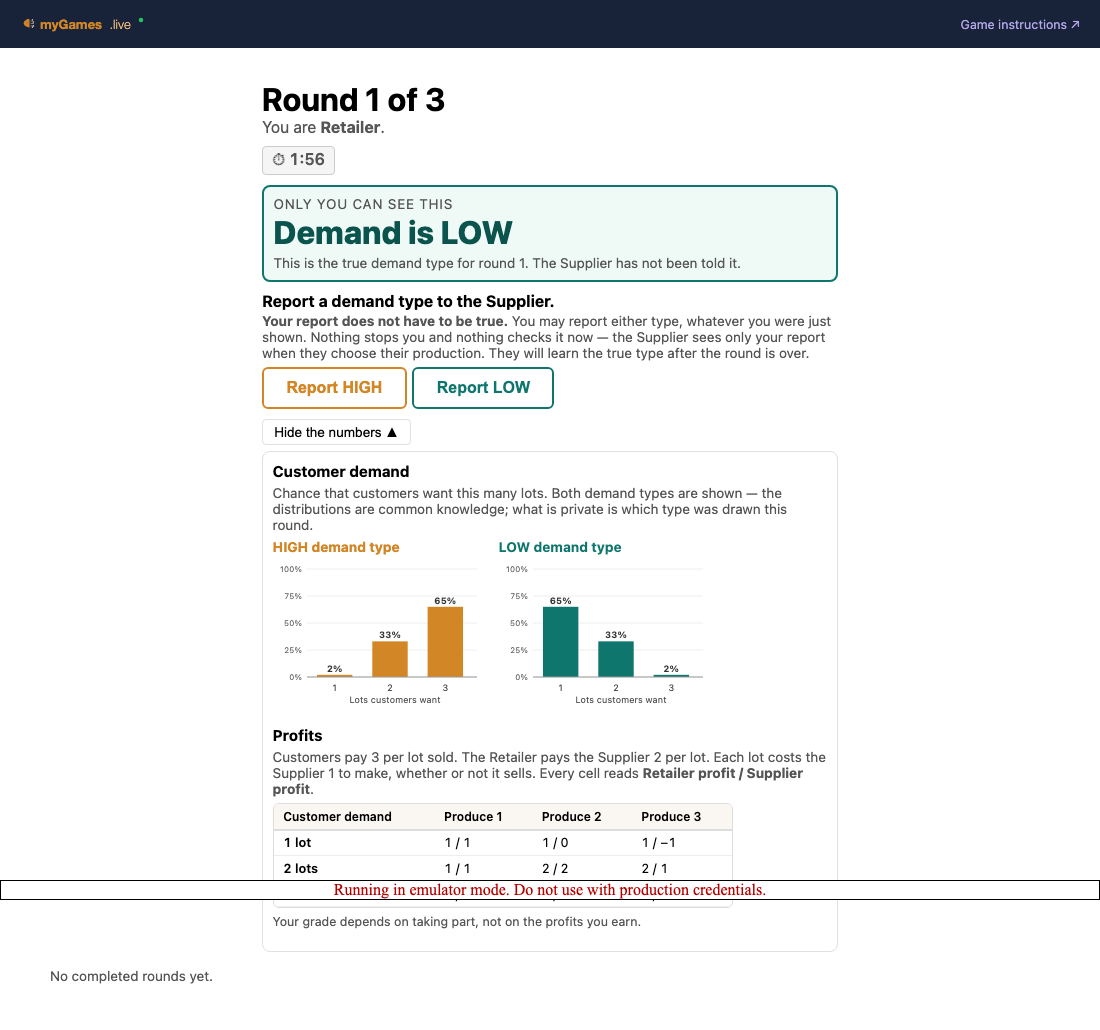
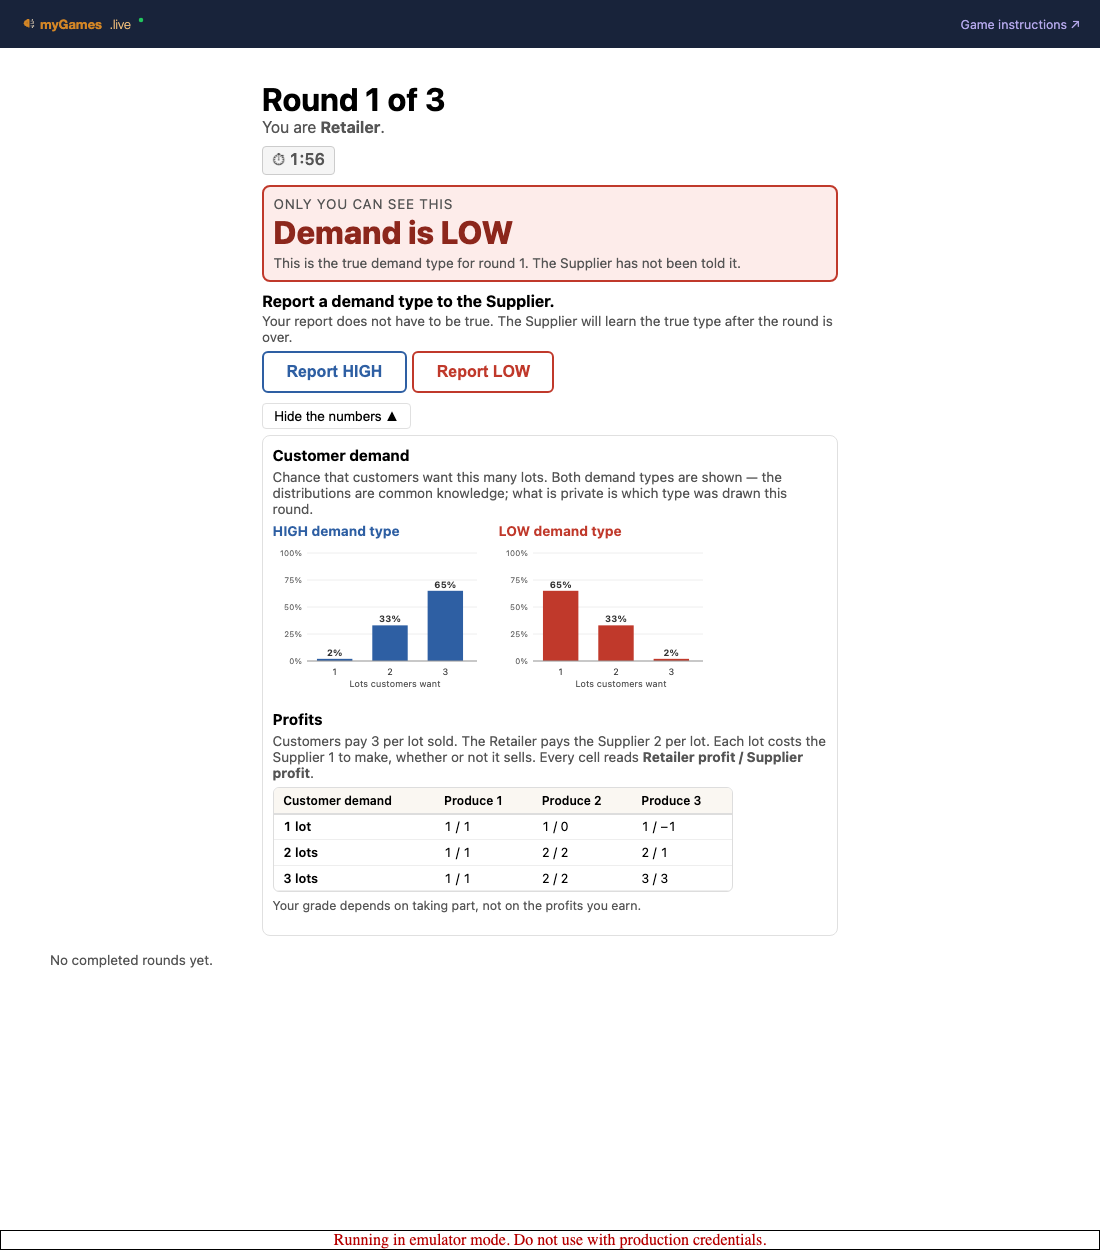
infoshare: Elena's copy, blue/red palette, round-1 panel default, payoff assertion
COPY — Elena's wording verbatim on both decision screens. The earlier version
over-explained: it spelled out that nothing checks the report and that the
Supplier sees only the message, both obvious from the screen and both covered by
the instruction sheet and the knowledge check. Students do not read paragraphs
on a decision screen.

COLOUR — HIGH is blue #2E5FA3, LOW is red #C0392B, matching the printed sheet.
A student is handed paper and then looks at a screen; two palettes for one idea
means learning the key twice.

  ⚠ This was NOT a one-place change, contrary to my earlier claim. The constants
  were declared in reports/Charts.tsx AND again in game/InformationPanel.tsx,
  with six more hex literals inlined in GameScreen.tsx. Now genuinely one place:
  src/demandColours.ts, which everything imports.

  Also fixes a caption that named the palette — "the orange dots", "the teal
  dots" — and would have contradicted the chart the moment it changed. It now
  says HIGH and LOW, which the legend colours.

NUMBERS PANEL — open by default in round 1, then the student's own choice for
every round after. `touched` records whether they have actually used the toggle:
without it, "round 1 default" and "the student closed it" are the same state and
the panel springs back open for exactly the student who said no.

PAYOFF TABLE — asserted, not photographed. Checks 3 demand rows × 3 production
columns, all nine cells non-empty, and that nothing is drawn on top of any of
[…]

diff --git a/frontend/src/game/GameScreen.tsx b/frontend/src/game/GameScreen.tsx
@@ -10,6 +10,7 @@ import {
 import HistoryTable from './HistoryTable'
 import ClockBar from './ClockBar'
 import InformationPanel from './InformationPanel'
+import { colourFor, tintFor, textFor } from '../demandColours'
 
 // ═══════════════════════════════════════════════════════════════════════════════
 // THE STUDENT GAME SCREEN — the two decision screens (spec §1.1).
@@ -119,6 +120,17 @@ export default function GameScreen({
 
   const v = data.view
 
+  /*
+    ⚠ PRESENCE DECIDES, the narrowing is only for the type checker.
+    `'demandType' in v` is still the gate — never `v.demandType != null` and never
+    `v.demandType ?? 'unknown'`. When the reveal rule withholds the draw the KEY IS
+    ABSENT, and a nullish test written the easy way turns "hidden" into a rendered value
+    the moment someone changes the server to send null. This binding exists because
+    TypeScript does not narrow an optional property through `in` at the use site, not
+    because absence and undefined are being treated as the same thing.
+  */
+  const trueType = 'demandType' in v ? v.demandType : undefined
+
   // ── the round result screen ──────────────────────────────────────────────────
   if (showingResultFor !== null && v.history.length >= showingResultFor) {
     const row = v.history[showingResultFor - 1]
@@ -207,13 +219,13 @@ export default function GameScreen({
         whole decision is what to do with a fact only they hold; burying it in a sentence
         makes the game about reading carefully instead of about choosing.
       */}
-      {'demandType' in v && (
+      {trueType !== undefined && (
         <section
           data-testid="private-state"
           style={{
             margin: `${spacing.gapMd} 0`, padding: spacing.gapMd, borderRadius: 8,
-            border: `2px solid ${v.demandType === 'HIGH' ? '#D38626' : '#0f766e'}`,
-            background: v.demandType === 'HIGH' ? '#fdf5e9' : '#effaf7',
+            border: `2px solid ${colourFor(trueType)}`,
+            background: tintFor(trueType),
           }}
         >
           <p style={{ margin: 0, fontSize: typography.sizeSm, color: colors.textSecondary,
@@ -221,8 +233,8 @@ export default function GameScreen({
             Only you can see this
           </p>
           <p style={{ margin: '0.15rem 0 0', fontSize: '2rem', fontWeight: 800, lineHeight: 1.1,
-                      color: v.demandType === 'HIGH' ? '#8a5410' : '#0b544d' }}>
-            Demand is {v.demandType}
+                      color: textFor(trueType) }}>
+            Demand is {trueType}
           </p>
           <p style={{ margin: '0.3rem 0 0', fontSize: typography.sizeSm, color: colors.textSecondary }}>
             This is the true demand type for round {v.round}. The Supplier has not been told it.
@@ -233,28 +245,29 @@ export default function GameScreen({
       {v.owes === 'message' && (
         <>
           {/*
-            ⚠ DO NOT SOFTEN THIS COPY. The Retailer is being told, in plain words, that
-            they may report a type that is not the one they were shown, and that nothing
-            checks it at the time. That is not a loophole in the game — it is the game.
-            A student who believes the report is supposed to be true is not playing the
-            same experiment as the one who does not, and the class data becomes a mixture
-            of two populations. "Please report honestly", "your report should reflect…",
-            or any wording that implies an obligation, breaks the design.
+            ⚠ ELENA'S WORDING, VERBATIM. Two sentences, and the first one carries the
+            whole design: a student who believes the report is SUPPOSED to be true is not
+            running the same experiment as one who does not, and the class data becomes a
+            mixture of two populations. Never add "please report honestly", "your report
+            should reflect…", or anything else implying an obligation.
+
+            Equally: do not ADD to it. An earlier version explained at length that nothing
+            checks the report and that the Supplier sees only the message — both obvious
+            from the screen in front of them, and both covered by the instruction sheet
+            and the knowledge check. Students do not read paragraphs on a decision screen.
           */}
           <Choices
             label={`Report a demand type to the Supplier.`}
             help={
               <>
-                <strong>Your report does not have to be true.</strong> You may report
-                either type, whatever you were just shown. Nothing stops you and nothing
-                checks it now — the Supplier sees only your report when they choose their
-                production. They will learn the true type after the round is over.
+                Your report does not have to be true. The Supplier will learn the true
+                type after the round is over.
               </>
             }
             testId="message-choices"
             options={[
-              { value: 'HIGH', label: 'Report HIGH', tint: '#D38626' },
-              { value: 'LOW', label: 'Report LOW', tint: '#0f766e' },
+              { value: 'HIGH', label: 'Report HIGH', tint: colourFor('HIGH') },
+              { value: 'LOW', label: 'Report LOW', tint: colourFor('LOW') },
             ]}
             disabled={busy}
             onPick={(val) => act(() => submitMessage(groupId, val as DemandType))}
@@ -286,12 +299,14 @@ export default function GameScreen({
             </p>
             <p data-testid="reported-type"
                style={{ margin: '0.15rem 0 0', fontSize: '2rem', fontWeight: 800, lineHeight: 1.1,
-                        color: v.currentMessage === 'HIGH' ? '#8a5410' : '#0b544d' }}>
+                        color: v.currentMessage === 'LOW' ? textFor('LOW') : textFor('HIGH') }}>
               {v.currentMessage ?? '—'}
             </p>
+            {/* Elena's wording, verbatim. Do not expand it. */}
             <p style={{ margin: '0.3rem 0 0', fontSize: typography.sizeSm, color: colors.textSecondary }}>
               This is what the Retailer chose to tell you. It may or may not be the true
-              demand type — you will find out after you have produced.
+              demand type. After your production decision you will learn the true demand
+              type.
             </p>
           </section>
           <Choices
@@ -321,7 +336,7 @@ export default function GameScreen({
         both stages and therefore both roles. Keyed on `owes`, NOT on role: keying it on
         role is how one of the two screens quietly loses it.
       */}
-      {v.owes !== null && <InformationPanel />}
+      {v.owes !== null && <InformationPanel round={v.round} />}
 
       {error && <p role="alert" data-testid="action-error" style={{ color: '#b91c1c' }}>{error}</p>}
 

diff --git a/frontend/src/reports/Charts.tsx b/frontend/src/reports/Charts.tsx
@@ -8,16 +8,16 @@ import type { Series, PairPoint } from './analytics'
 // Pricing uses — so infoshare's charts are not a different generation of picture.
 // ═══════════════════════════════════════════════════════════════════════════════
 
-// ⚠ ONE COLOUR PER CONCEPT, ACROSS EVERY CHART ON THE PAGE.
-// HIGH is always this orange and LOW is always this teal — in the trustworthiness
-// series, in the trust series, in the scatter and in every legend. When the same idea
-// changes colour between two charts a reader has to re-learn the key each time, and on a
-// projector they will not.
-export const HIGH_COLOUR = '#D38626'   // the house orange
-export const LOW_COLOUR  = '#0f766e'   // teal — distinct from orange in mono and to most
-                                       // colour-blind viewers
-/** Anything that is neither HIGH nor LOW (the scatter's pair dots). */
-export const NEUTRAL_COLOUR = '#475569'
+// ⚠ ONE COLOUR PER CONCEPT, ACROSS EVERY CHART ON THE PAGE — AND ACROSS THE SCREENS AND
+// THE PRINTED SHEET TOO. HIGH is always blue and LOW is always red, in the trustworthiness
+// series, in the trust series, in the scatter, in every legend, in the in-game numbers
+// panel, and on the instruction sheet the student was handed. When the same idea changes
+// colour between two pictures a reader has to re-learn the key each time.
+//
+// Defined ONCE in ../demandColours and re-exported here for the report modules that
+// already import from this file. Do not declare a demand colour anywhere else.
+export { HIGH_COLOUR, LOW_COLOUR, NEUTRAL_COLOUR } from '../demandColours'
+import { HIGH_COLOUR, LOW_COLOUR, NEUTRAL_COLOUR } from '../demandColours'
 
 /** Big enough to read projected — these charts are used in a lecture theatre. */
 const DOT = 6
@@ -48,9 +48,16 @@ export function TrustworthinessChart({ data, scope }: { data: { trueHigh: Series
       countSeriesKey="trueLow"
       caption={
         <>
+          {/*
+            ⚠ IF A CAPTION NAMES A COLOUR, IT IS COUPLED TO THE PALETTE. This one said
+            "orange" and "teal" and became wrong the moment the palette moved to blue and
+            red — a caption that contradicts the chart is worse than no caption, because
+            the reader trusts the words. Say HIGH and LOW, which the legend already
+            colours, and the sentence survives the next palette change too.
+          */}
           A Retailer never loses by reporting HIGH when demand really is HIGH, so the
-          <strong> orange</strong> dots sit near the top almost by construction.
-          <strong> The teal dots are the game</strong> — telling the truth about LOW is
+          <strong> HIGH</strong> dots sit near the top almost by construction.
+          <strong> The LOW dots are the game</strong> — telling the truth about LOW is
           what costs something. Each dot is one round; clock-resolved rounds are excluded,
           so the number of groups behind a dot varies and the dots are deliberately not
           joined.

diff --git a/frontend/src/game/InformationPanel.tsx b/frontend/src/game/InformationPanel.tsx
@@ -1,4 +1,5 @@
 import { useState } from 'react'
+import { HIGH_COLOUR, LOW_COLOUR } from '../demandColours'
 import { colors, typography, spacing } from '@mygames/game-ui'
 import { payoffTable } from '../../../functions/src/round/resolver'
 import { DEFAULT_ROUND_SETTINGS, profileFor, LOTS, type RoundSettings, type Lots } from '../../../functions/src/round/settings'
@@ -24,8 +25,6 @@ import { DEFAULT_ROUND_SETTINGS, profileFor, LOTS, type RoundSettings, type Lots
 // see these on screen during the game" — so it has to be the same picture.
 // ═══════════════════════════════════════════════════════════════════════════════
 
-const HIGH_COLOUR = '#D38626'
-const LOW_COLOUR = '#0f766e'
 
 function Histogram({ type, s }: { type: 'HIGH' | 'LOW'; s: RoundSettings }) {
   const dist = profileFor(type, s)
@@ -138,17 +137,38 @@ export function InformationPanelBody({ settings = DEFAULT_ROUND_SETTINGS }: { se
 }
 
 /**
- * The panel as a toggle, for the decision screens. Collapsed by default so it never
- * pushes the actual decision below the fold on a phone, but one tap away on both screens
- * and in both stages.
+ * THE PANEL AS A TOGGLE, on both decision screens.
+ *
+ * ⚠ OPEN BY DEFAULT IN ROUND 1, THEN THE STUDENT'S OWN CHOICE FOREVER AFTER.
+ *
+ * Round 1 is when a student most needs the distributions and the payoff table, and when
+ * they are least likely to go looking for a control they have never seen. Every round
+ * after that, the panel is whatever they last left it — a default that reasserts itself
+ * each round would reopen a panel they deliberately closed, ten times running.
+ *
+ * ⚠ THE CHOICE IS TRACKED, NOT INFERRED. `touched` records whether the student has
+ * actually used the toggle. Without it, "open in round 1 only" and "the student closed
+ * it in round 1" are the same state, and the panel would spring back open in round 2 for
+ * exactly the student who just said no.
+ *
+ * Deliberately component-local, not persisted: it is a reading preference for one
+ * sitting, and a stored one would outlive the class it was set in.
  */
-export default function InformationPanel({ settings }: { settings?: RoundSettings }) {
-  const [open, setOpen] = useState(false)
+export default function InformationPanel({ settings, round }: { settings?: RoundSettings; round?: number }) {
+  const [touched, setTouched] = useState(false)
+  const [openedByUser, setOpenedByUser] = useState(false)
+  const open = touched ? openedByUser : round === 1
+
+  const toggle = () => {
+    setOpenedByUser(!open)
+    setTouched(true)
+  }
+
   return (
     <section style={{ margin: `${spacing.gapMd} 0` }}>
       <button
         data-testid="info-panel-toggle"
-        onClick={() => setOpen((v) => !v)}
+        onClick={toggle}
         style={{ padding: '0.3rem 0.7rem', fontSize: typography.sizeSm, cursor: 'pointer',
                  borderRadius: 4, border: `1px solid ${colors.borderMid}`, background: colors.white }}
       >

diff --git a/frontend/src/demandColours.ts b/frontend/src/demandColours.ts
@@ -1,0 +1,41 @@
+// ═══════════════════════════════════════════════════════════════════════════════
+// THE DEMAND-TYPE COLOURS — ONE DEFINITION, FOR SCREENS AND REPORTS ALIKE.
+//
+// ⚠ BLUE IS HIGH, RED IS LOW, EVERYWHERE, AND IT MATCHES THE PRINTED SHEET.
+// Students are handed an instruction sheet before they play and then look at a screen
+// during it. If the histogram on the paper is blue and the histogram on the screen is
+// orange, the two are different pictures of the same thing and the student has to learn
+// the key twice — on a projector, from the back of a room, they will not.
+//
+// ⚠ THIS FILE EXISTS BECAUSE THE CONSTANTS WERE DUPLICATED. They were defined once in
+// reports/Charts.tsx and AGAIN in game/InformationPanel.tsx, with four more hex literals
+// inlined in GameScreen.tsx. A colour change was therefore a three-file change with one
+// place easy to miss — which is exactly the failure mode a shared constant is supposed to
+// prevent. Import from here. Do not re-declare a demand colour anywhere else.
+// ═══════════════════════════════════════════════════════════════════════════════
+
+/** HIGH demand. Matches the blue on the printed instruction sheet. */
+export const HIGH_COLOUR = '#2E5FA3'
+
+/** LOW demand. Matches the red on the printed instruction sheet. */
+export const LOW_COLOUR = '#C0392B'
+
+/** Anything that is neither HIGH nor LOW — the reciprocity scatter's pair dots. */
+export const NEUTRAL_COLOUR = '#475569'
+
+/**
+ * Card backgrounds and heading text for the two decision screens.
+ *
+ * Darker than the base colour so large bold text stays legible on the tint rather than
+ * vibrating against it — the base blue and red are chosen for 6px chart marks on white,
+ * which is a different job from 2rem type on a coloured panel.
+ */
+export const HIGH_TINT = '#EAF1FA'
+export const LOW_TINT = '#FDECEA'
+export const HIGH_TEXT = '#1F4278'
+export const LOW_TEXT = '#8C271C'
+
+/** Pick the pair for a demand type, so callers stop writing the ternary by hand. */
+export const colourFor = (t: 'HIGH' | 'LOW') => (t === 'HIGH' ? HIGH_COLOUR : LOW_COLOUR)
+export const tintFor = (t: 'HIGH' | 'LOW') => (t === 'HIGH' ? HIGH_TINT : LOW_TINT)
+export const textFor = (t: 'HIGH' | 'LOW') => (t === 'HIGH' ? HIGH_TEXT : LOW_TEXT)
